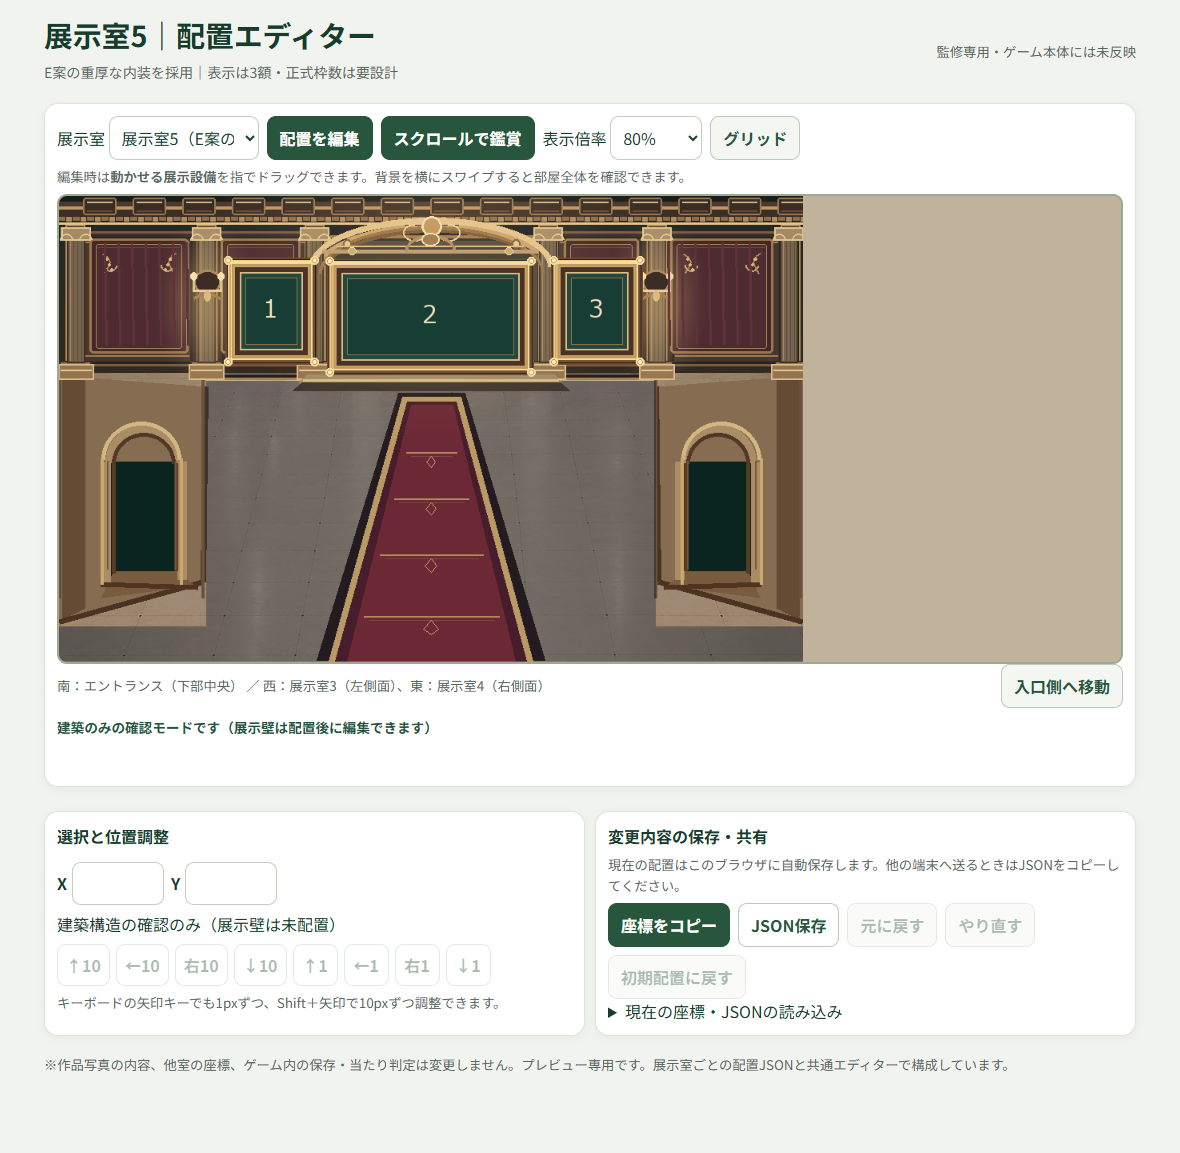
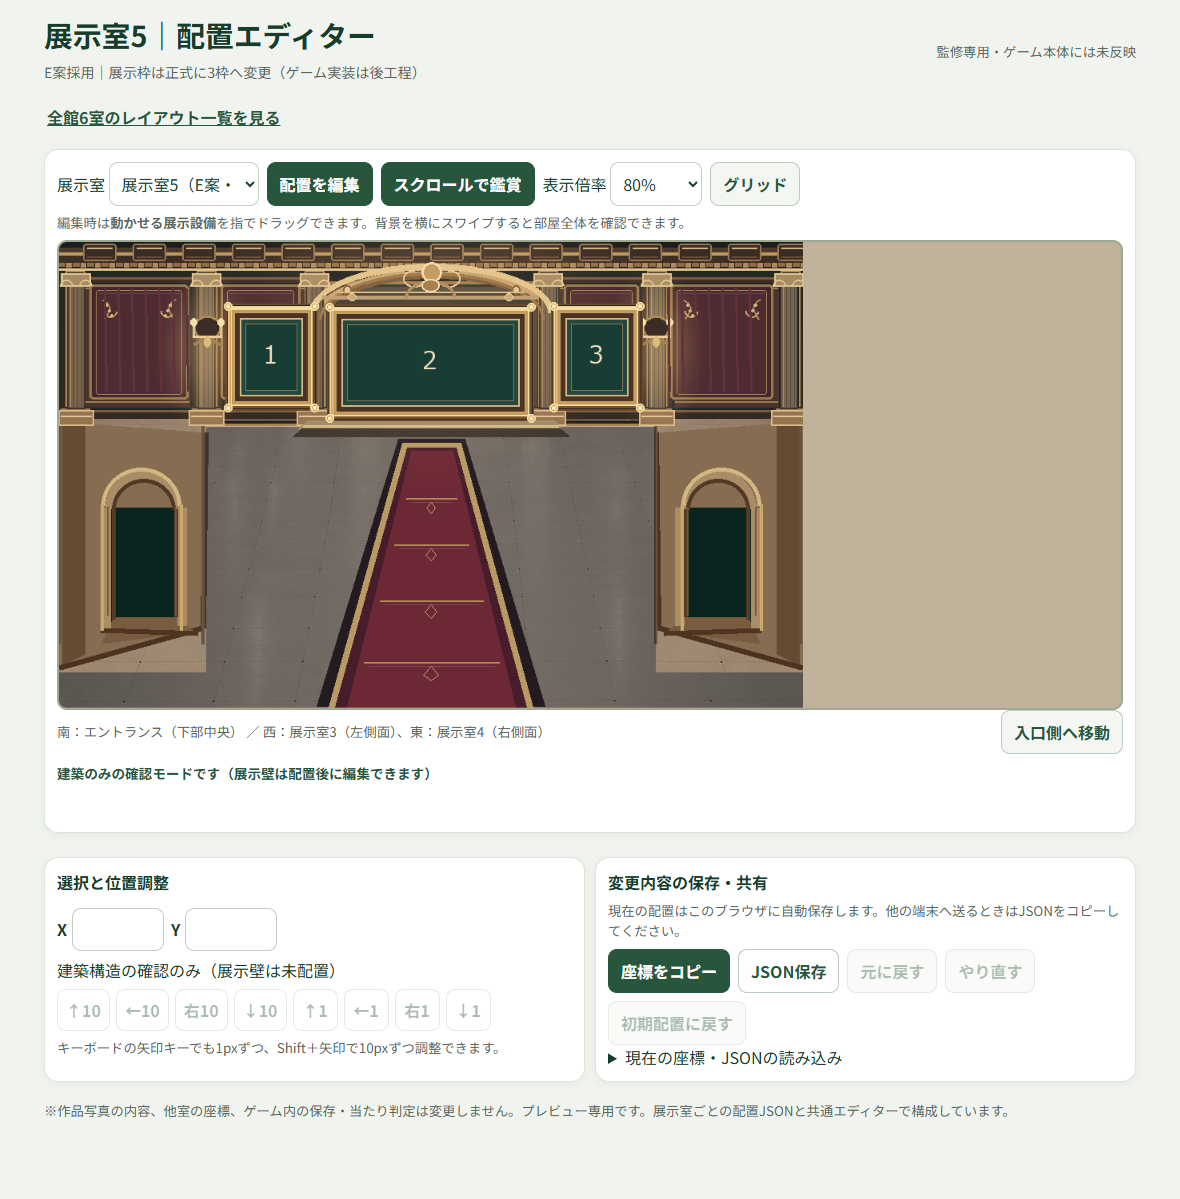
feat(a18): record gallery5 final three-frame decision and six-room layout overview

Changed region(s): [[0.0305, 0.0, 0.9763, 0.6557], [0.0305, 0.7181, 0.9458, 0.9367], [0.7932, 0.0312, 0.9763, 0.0624]]

diff --git a/whole-museum-review/index.html b/whole-museum-review/index.html
@@ -1,0 +1,48 @@
+<!doctype html>
+<html lang="ja">
+<head>
+<meta charset="utf-8"><meta name="viewport" content="width=device-width,initial-scale=1">
+<meta name="theme-color" content="#203e33">
+<title>A18 とっておき美術館｜全館レイアウト監修</title>
+<style>
+:root{font-family:system-ui,-apple-system,"Hiragino Kaku Gothic ProN","Meiryo",sans-serif;color:#24362e;background:#f6f3ec}
+*{box-sizing:border-box}body{margin:0}header{padding:24px max(18px,calc((100vw - 1380px)/2));background:#203e33;color:#f9f4e9}
+header h1{font-size:clamp(21px,3vw,30px);margin:0 0 9px}header p{font-size:13px;line-height:1.7;color:#e7e8dd;margin:0}
+main{max-width:1440px;margin:auto;padding:24px 16px 40px}h2{font-size:17px;margin:8px 0 16px}
+.museum{display:grid;grid-template-columns:repeat(3,minmax(0,1fr));gap:17px}
+.card{overflow:hidden;background:white;border-radius:11px;border:1px solid #d6cdbf}
+.card .head{padding:13px 15px 11px;display:flex;align-items:baseline;flex-wrap:wrap;gap:4px 10px}
+.card h3{font-size:17px;margin:0}.card span{font-size:12px;color:#68665e}
+.card img{display:block;width:100%;height:auto;aspect-ratio:930/582;object-fit:contain;background:#234236}
+.card img.entrance{object-fit:contain}
+.card a{display:block;color:inherit;text-decoration:none}.card a:focus-visible{outline:4px solid #a18a53;outline-offset:-4px}
+.card p{margin:8px 13px 14px;color:#696660;font-size:12px;line-height:1.65}
+.note{margin-top:22px;padding:17px 20px;border-top:1px solid #c7b9a4;color:#51564e;font-size:13px;line-height:1.9}
+.links{display:flex;flex-wrap:wrap;gap:9px;margin-top:16px}
+.links a{border:1px solid #b9a98f;padding:9px 13px;border-radius:7px;text-decoration:none;color:#285143;background:white;font-size:13px}
+@media(max-width:760px){main{padding:14px 12px 35px}.museum{grid-template-columns:1fr;gap:15px}.card h3{font-size:18px}header{padding:21px 15px}}
+</style></head>
+<body>
+<header>
+<h1>とっておき美術館｜全館レイアウト一覧</h1>
+<p>監修用の承認済み構図を、正しい館内の接続関係に沿って並べました。スマホでは上から順に表示します。写真をタップすると拡大できます。</p>
+</header>
+<main>
+<h2>上段：展示室3 → 展示室5 → 展示室4　／　下段：展示室1 → エントランス → 展示室2</h2>
+<div class="museum">
+<article class="card"><div class="head"><h3>展示室3</h3><span>Lv.4・G案｜5枠</span></div><a href="gallery3_approved_layout.png"><img src="gallery3_approved_layout.png" alt="展示室3。中央奥に大きな額縁、手前左右にハの字型展示壁"></a><p>奥まった中央壁と、左右の斜め展示壁が特徴。</p></article>
+<article class="card"><div class="head"><h3>展示室5</h3><span>Lv.6・E案｜正式3枠（未実装）</span></div><a href="gallery5_approved_layout.png"><img src="gallery5_approved_layout.png" alt="展示室5。ワインレッドの絨毯と宮殿風の柱、中央の大額縁と左右2額"></a><p>最後の特別室。豪華さはE案で固定。ゲームの5→3枠変更は後日対応。</p></article>
+<article class="card"><div class="head"><h3>展示室4</h3><span>Lv.5・A案｜5枠</span></div><a href="gallery4_approved_layout.png"><img src="gallery4_approved_layout.png" alt="展示室4。奥壁に縦横4枠、室内右側に横長展示壁"></a><p>奥壁4枠＋室内1枠。縦横混在の外形を採用し、装飾候補は保留。</p></article>
+<article class="card"><div class="head"><h3>展示室1</h3><span>Lv.2・配置承認｜5枠</span></div><a href="gallery1_approved_layout.png"><img src="gallery1_approved_layout.png" alt="展示室1。奥壁3枠、手前2枠と中央の案内台"></a><p>奥壁3枠＋手前2枠。中央には小さな案内台。</p></article>
+<article class="card"><div class="head"><h3>エントランス</h3><span>Lv.1〜Lv.6・画像は承認済みLv.6</span></div><a href="entrance_approved_lv6.png"><img class="entrance" src="entrance_approved_lv6.png" alt="承認済みエントランスLv.6。受付、絨毯、植物、額縁、案内看板"></a><p>Lv.6の承認画像をそのまま掲載。撮影時のLv.1操作UIが写っています。</p></article>
+<article class="card"><div class="head"><h3>展示室2</h3><span>Lv.3・A案｜5枠</span></div><a href="gallery2_approved_layout.png"><img src="gallery2_approved_layout.png" alt="展示室2。奥壁2枠、手前に独立展示壁が3枠"></a><p>奥壁2枠＋手前に3枠。中央をずらしたレイアウト。</p></article>
+</div>
+<div class="links">
+<a href="whole_museum_map_3x2.png">全館6室を1枚で見る</a>
+<a href="../?room=gallery3">個別の展示室プレビューを開く</a>
+</div>
+<div class="note">
+<b>設計・ゲーム実装の区別</b>：このページは監修済みレイアウトの全景比較です。作品写真の表示・スタッフ・歩行・当たり判定・前後レイヤーは別途実装／検証します。
+展示室5の正式枠数は3枠ですが、現在のゲームデータは5枠のままです。入口は別リポジトリの承認済みLv.6画像をハッシュ検証して引用しました。過去の比較試作は採用案と区別して保管しています。
+</div></main>
+</body></html>

diff --git a/index.html b/index.html
@@ -41,6 +41,7 @@ pre{background:#e7eee6;border-radius:9px;padding:10px;font-size:12px;white-space
 @media(max-width:480px){main{padding:10px 10px 40px}.panel{padding:9px}.btn{font-size:.85rem;padding:8px}.scene-scroll{border-radius:6px}.field{width:78px}.grid{grid-template-columns:1fr}}
 </style></head><body><main>
 <header class="top"><div><h1><span id="room-title">展示室1</span>｜配置エディター</h1><p class="sub"><span id="room-subtitle">読み込み中…</span></p></div><small>監修専用・ゲーム本体には未反映</small></header>
+<p><a href="whole-museum-review/" style="display:inline-block;color:#27563d;font-weight:700;padding:7px 3px">全館6室のレイアウト一覧を見る</a></p>
 <div class="panel">
 <div class="controls" aria-label="画面設定">
 <label>展示室 <select id="room-select" class="field" style="width:auto;max-width:150px" aria-label="展示室"></select></label>

diff --git a/qa/build_whole_museum_review.py b/qa/build_whole_museum_review.py
@@ -1,0 +1,85 @@
+"""Build faithful six-room visual overview from approved assets; no game changes."""
+from pathlib import Path
+from PIL import Image,ImageDraw,ImageFont,ImageOps
+import json,hashlib,shutil
+root=Path(__file__).resolve().parents[1]
+output=root/"whole-museum-review"
+output.mkdir(exist_ok=True)
+entrance_root=root.parent/"a18-art-previews-publish"/"entrance-lv6-review-20261028"
+entrance_source=entrance_root/"approved-entrance-lv6-20261028.png"
+manifest=json.loads((entrance_root/"APPROVED_ENTRANCE_LV6_MANIFEST.json").read_text(encoding="utf-8"))
+expected=manifest["sha256"]
+assert hashlib.sha256(entrance_source.read_bytes()).hexdigest()==expected,"Entrance Lv6 approval source hash mismatch"
+Image.open(entrance_source).verify()
+if not (output/"entrance_approved_lv6.png").exists():
+    shutil.copyfile(entrance_source,output/"entrance_approved_lv6.png")
+assert hashlib.sha256((output/"entrance_approved_lv6.png").read_bytes()).hexdigest()==expected
+
+rooms={}
+for i in range(1,6):
+    room=json.loads((root/f"rooms/gallery{i}/room.json").read_text(encoding="utf-8"))
+    assert room["id"]==f"gallery{i}"
+    sz=room["size"]; assert (sz["width"],sz["height"])==(930,582)
+    base=Image.open(root/room["background"]).convert("RGBA")
+    assert base.size==(930,582)
+    for obj in room["objects"]:
+        rc=obj["rect"]
+        art=Image.open(root/obj["image"]).convert("RGBA").resize((rc["w"],rc["h"]),Image.Resampling.LANCZOS)
+        base.alpha_composite(art,(rc["x"],rc["y"]))
+    # The editor draws the separate foreground above movable gallery walls.
+    fg=Image.open(root/room["foreground"]).convert("RGBA")
+    assert fg.size==(930,582),f"unexpected foreground size gallery{i}: {fg.size}"
+    base.alpha_composite(fg)
+    base.convert("RGB").save(output/f"gallery{i}_approved_layout.png")
+    rooms[f"gallery{i}"]=base.convert("RGB")
+assert json.loads((root/"rooms/gallery5/room.json").read_text(encoding="utf-8"))["approvedTargetFrameCount"]==3
+
+# Approved entrance image is 1200x880 screenshot; DO NOT crop away furniture/character/UI.
+entrance=Image.open(output/"entrance_approved_lv6.png").convert("RGB")
+canvas=Image.new("RGB",(930,582),"#203e34")
+fits=ImageOps.contain(entrance,(930,582),Image.Resampling.LANCZOS)
+canvas.paste(fits,((930-fits.width)//2,(582-fits.height)//2))
+rooms["entrance"]=canvas
+font_path="C:/Windows/Fonts/meiryo.ttc"
+title=ImageFont.truetype(font_path,26)
+sub=ImageFont.truetype(font_path,16)
+labels={
+    "gallery1":("展示室1","Lv.2｜配置承認・5枠"),
+    "gallery2":("展示室2","Lv.3｜配置承認・5枠"),
+    "gallery3":("展示室3","Lv.4｜G案・5枠"),
+    "gallery4":("展示室4","Lv.5｜A案・5枠"),
+    "gallery5":("展示室5","Lv.6｜E案・正式3枠（未実装）"),
+    "entrance":("エントランス","Lv.1〜6｜画像はLv.6正式デザイン")
+}
+ordering=[["gallery3","gallery5","gallery4"],["gallery1","entrance","gallery2"]]
+thumb=(590,370)
+margin=20;gap=18;header=70;footer=57
+sheet_w=margin*2+thumb[0]*3+gap*2
+sheet_h=margin*2+(thumb[1]+header)*2+gap+footer
+sheet=Image.new("RGB",(sheet_w,sheet_h),"#f4f0e9")
+d=ImageDraw.Draw(sheet)
+for r,row in enumerate(ordering):
+ for col,k in enumerate(row):
+    x=margin+col*(thumb[0]+gap);y=margin+r*(header+thumb[1]+gap)
+    d.rounded_rectangle((x,y,x+thumb[0],y+header+thumb[1]),radius=9,fill="#ffffff",outline="#c0b6a6",width=2)
+    t,st=labels[k]
+    d.text((x+14,y+10),t,font=title,fill="#25483c")
+    d.text((x+14,y+42),st,font=sub,fill="#615f56")
+    img=ImageOps.fit(rooms[k],thumb,method=Image.Resampling.LANCZOS)
+    sheet.paste(img,(x,y+header))
+d.text((margin,sheet_h-footer+12),"※展示室は承認済み配置の合成プレビュー。入口は承認済みLv.6画像（試験UIが写り込む）。通行判定は未検証。",font=sub,fill="#5a5b52")
+sheet.save(output/"whole_museum_map_3x2.png")
+# Text metadata for UI and provenance.
+meta={
+ "schema":"a18-whole-museum-review/v1",
+ "source":"approved layout configs and entrance approved Lv6 image",
+ "reviewOnly":True,
+ "order":[z for row in ordering for z in row],
+ "approvedTargets":{"entrance":3,"gallery1":5,"gallery2":5,"gallery3":5,"gallery4":5,"gallery5":3,"total":26},
+ "runtime": {"currentTotalFrames":28,"currentGallery5Frames":5,"status":"deferred implementation"},
+ "entranceApprovedSha256":expected,
+ "rooms":[{"id":k,"title":labels[k][0],"subtitle":labels[k][1],
+           "preview":f"{k}_approved_layout.png" if k!="entrance" else "entrance_approved_lv6.png"} for row in ordering for k in row]
+}
+(output/"overview.json").write_text(json.dumps(meta,ensure_ascii=False,indent=2)+"\n",encoding="utf-8")
+print("PASS overview",sheet.size,"rooms",len(meta["rooms"]),"entrance_SHA",expected[:16])

diff --git a/qa/check_whole_museum_review.py b/qa/check_whole_museum_review.py
@@ -1,0 +1,48 @@
+"""Ensure full-museum review matches approved sources and is phone/desktop readable."""
+from pathlib import Path
+from functools import partial
+from http.server import ThreadingHTTPServer,SimpleHTTPRequestHandler
+from threading import Thread
+from playwright.sync_api import sync_playwright
+from PIL import Image
+import hashlib,json
+repo=Path(__file__).resolve().parents[1]
+out=repo/"whole-museum-review"
+metadata=json.loads((out/"overview.json").read_text(encoding="utf-8"))
+assert metadata["reviewOnly"] is True
+assert metadata["approvedTargets"]=={"entrance":3,"gallery1":5,"gallery2":5,"gallery3":5,"gallery4":5,"gallery5":3,"total":26}
+assert metadata["runtime"]=={"currentTotalFrames":28,"currentGallery5Frames":5,"status":"deferred implementation"}
+assert metadata["order"]==["gallery3","gallery5","gallery4","gallery1","entrance","gallery2"]
+assert len(metadata["rooms"])==6
+assert hashlib.sha256((out/"entrance_approved_lv6.png").read_bytes()).hexdigest()==metadata["entranceApprovedSha256"]
+assert Image.open(out/"whole_museum_map_3x2.png").size==(1846,995)
+for i in range(1,6):
+ assert Image.open(out/f"gallery{i}_approved_layout.png").size==(930,582)
+source=json.loads((repo/"rooms/gallery5/room.json").read_text(encoding="utf-8"))
+assert (source["frameCount"],source["approvedTargetFrameCount"],source["previewArtworkCount"])==(5,3,3)
+assert "DECIDED_NOT_IMPLEMENTED"==source["frameCountChangeStatus"]
+class Quiet(SimpleHTTPRequestHandler):
+ def log_message(self,*args):pass
+srv=ThreadingHTTPServer(("127.0.0.1",0),partial(Quiet,directory=str(repo)))
+Thread(target=srv.serve_forever,daemon=True).start()
+try:
+ with sync_playwright() as pw:
+  browser=pw.chromium.launch(headless=True,executable_path=r"C:\Program Files\Google\Chrome\Application\chrome.exe",args=["--no-sandbox"])
+  for width in (390,1180):
+   ctx=browser.new_context(viewport={"width":width,"height":800})
+   page=ctx.new_page();errors=[]
+   page.on("pageerror",lambda e:errors.append(str(e)))
+   r=page.goto(f"http://127.0.0.1:{srv.server_port}/whole-museum-review/",wait_until="networkidle",timeout=18000)
+   assert r.status==200
+   assert page.locator(".card").count()==6
+   assert page.locator("img").count()==6
+   assert all(page.locator("img").evaluate_all("(els)=>els.map(e=>e.complete && e.naturalWidth>0)"))
+   cols=page.evaluate("getComputedStyle(document.querySelector('.museum')).gridTemplateColumns.split(' ').length")
+   assert cols==(1 if width==390 else 3),(width,cols)
+   assert not errors,errors
+   page.screenshot(path=str(out/f"whole_museum_browser_{width}.png"),full_page=True)
+   print("PASS six-room review",width,"cols",cols,"images",6,"runtime untouched")
+   ctx.close()
+  browser.close()
+finally:
+ srv.shutdown();srv.server_close()

diff --git a/qa/check_gallery5_live.py b/qa/check_gallery5_live.py
@@ -8,12 +8,15 @@ import json
 root=Path(__file__).resolve().parents[1]
 room=json.loads((root/'rooms/gallery5/room.json').read_text(encoding='utf-8'))
 assert room['id']=='gallery5'
-assert room['frameCount']==5
+assert room['frameCount']==5  # actual game remains unchanged
+assert room['approvedTargetFrameCount']==3
+assert room['targetMuseumFixtureCount']==26
+assert room['frameCountChangeStatus']=='DECIDED_NOT_IMPLEMENTED'
 assert room['previewArtworkCount']==3 and room['background'].endswith('gallery5_palace_E.png')
 assert room['entrance'].startswith('南') and room['exit'].startswith('西')
 assert '東' in room['exit'] and len(room['objects'])==0
 assert room['layoutRevision']=='gallery5-palace-E-visual-approved-20261029'
-assert room['status'].startswith('E palace visual design approved')
+assert room['status'].startswith('E palace design and target 3 display fixtures approved')
 for name in ('gallery5_concept_A.png','gallery5_concept_B.png','gallery5_architecture_only.png',
              'gallery5_heavy_C.png','gallery5_heavy_D.png','gallery5_heavy_architecture_C.png',
              'gallery5_palace_E.png','gallery5_palace_F.png','gallery5_palace_architecture_E.png'):

diff --git a/whole-museum-review/README.md b/whole-museum-review/README.md
@@ -1,0 +1,20 @@
+# A18 全館レイアウト比較・2026-10-29
+
+- 目的：エントランス＋展示室1〜5の**承認済み配置**を、館内図と同じ位置関係で一覧比較する。
+- 監修用画像 `whole_museum_map_3x2.png`、レスポンシブ `index.html`、各室の独立画像を保管する。
+- エントランスだけは別の素材管理リポジトリ `a18-art-previews-publish/entrance-lv6-review-20261028/approved-entrance-lv6-20261028.png` をSHA-256照合して**バイト同一コピー**する。プレビューはLv.6承認画像だがLv.1由来の画面UIが写っている。建築仕様・レイヤー・Lv.2〜5をその画像だけで代替しない。
+- 展示室1〜5は各 `rooms/galleryN/room.json` の背景、全オブジェクトの矩形と画像、前景を、配置エディターと同じ重なり順で合成（視覚用。ランタイムとは独立）。素材・座標・形状の変更はしていない。
+- 正しいマップは「上段: 展示室3―展示室5―展示室4 / 下段: 展示室1―入口―展示室2」。出入口の連結は今後ゲーム実機で検証。
+- 展示室1〜4: 各5枠。展示室5: **正式に3枠へ変更すると2026-10-29に決定済み**。エントランス:3枠。**将来計26枠**。
+- **ゲーム実装は後日**。現行の `frame-5-0` ～ `frame-5-4` は触らず、旧全館28枠のまま。以降、保存v3、最終達成、枠IDと既展示作品の扱いを安全に設計して26枠へ移行する。
+- 展示室4の空間装飾（彫像など）は**未採用**。展示室5のE案はこれ以上の豪華化を保留する。
+- 比較用の古いA〜D/F案等は過去の監修資料として個別保存しているが、正式な配置ではない。
+- **このリポジトリの対象は監修用レイアウト**。実際のスタッフ位置、歩行、衝突、写真の張り込み、前後描画、ドア通過、保存を保証しない。
+
+## Gitの範囲
+承認済み全館レイアウトをまとめる `a18-gallery-layout-editor` のwork→issue統合対象。プレビューの公開はゲーム本体の正式公開ではない。mainへのマージは禁止（別途指示待ち）。
+
+## テスト
+`python qa/build_whole_museum_review.py`
+`python qa/check_whole_museum_review.py`
+従来の各展示室QA（1〜5）も実行して回帰を確認する。

diff --git a/rooms/gallery5/LAYOUT_E_APPROVAL_20261029.md b/rooms/gallery5/LAYOUT_E_APPROVAL_20261029.md
@@ -11,9 +11,10 @@
 - 南＝エントランス／西＝展示室3／東＝展示室4の構造は変更しない。
 
 ### 作品数に関する決定境界
-- E案の**見た目**は中央の大作1＋左右縦額2の計3枠として受け入れている。
-- ただし、ゲームで正式に展示可能な枠数を5→3へ減らす**実装仕様はまだ決めていない**。現在のゲームの固定設備5個（`frame-5-0`〜`frame-5-4`）、全館28枠、Lv.6達成条件・保存契約は一切変更していない。
-- 正式枠数の変更を決める場合、進行・保存・旧ID/履歴・最終達成条件を整合させる設計とQAを別途行う。3枠プレビューだけではゲーム機能として完成していない。
+- **2026-10-29追加決定：展示室5の正式な展示枠数を5→3に変更する。** ユーザーの指示は「3枠に正式変更する、けど修正は後でいいよ．記録だけしてくれたら」。E案の中央大作1＋左右縦額2を採用する。
+- 将来の目標は**全館26枠（エントランス3＋展示室1〜4各5＋展示室5が3）**。旧仕様の28枠から2枠減る。
+- **このチャットでは設計決定の記録のみ**。ゲームソース、展示設備、イベント、保存スキーマ、進行判定を変更しない。現行ゲームは`frame-5-0`〜`frame-5-4`の5枠・全館28枠のまま。
+- 次回ゲーム実装時は、使用する3枠への設備ID対応と残り2枠の扱いを明示的に決め、既存IDを勝手に削除・再採番しない。Lv.6完了判定、保存v3、作品展示済みデータとの整合、入室・スタッフ・当たり判定を検証する。**変更の決定自体は済んでおり、枠数の採否を再確認する必要はない。**
 
 ### 作業範囲と未実装
 - この記録で承認されたのは**見た目と装飾の増加停止**。
